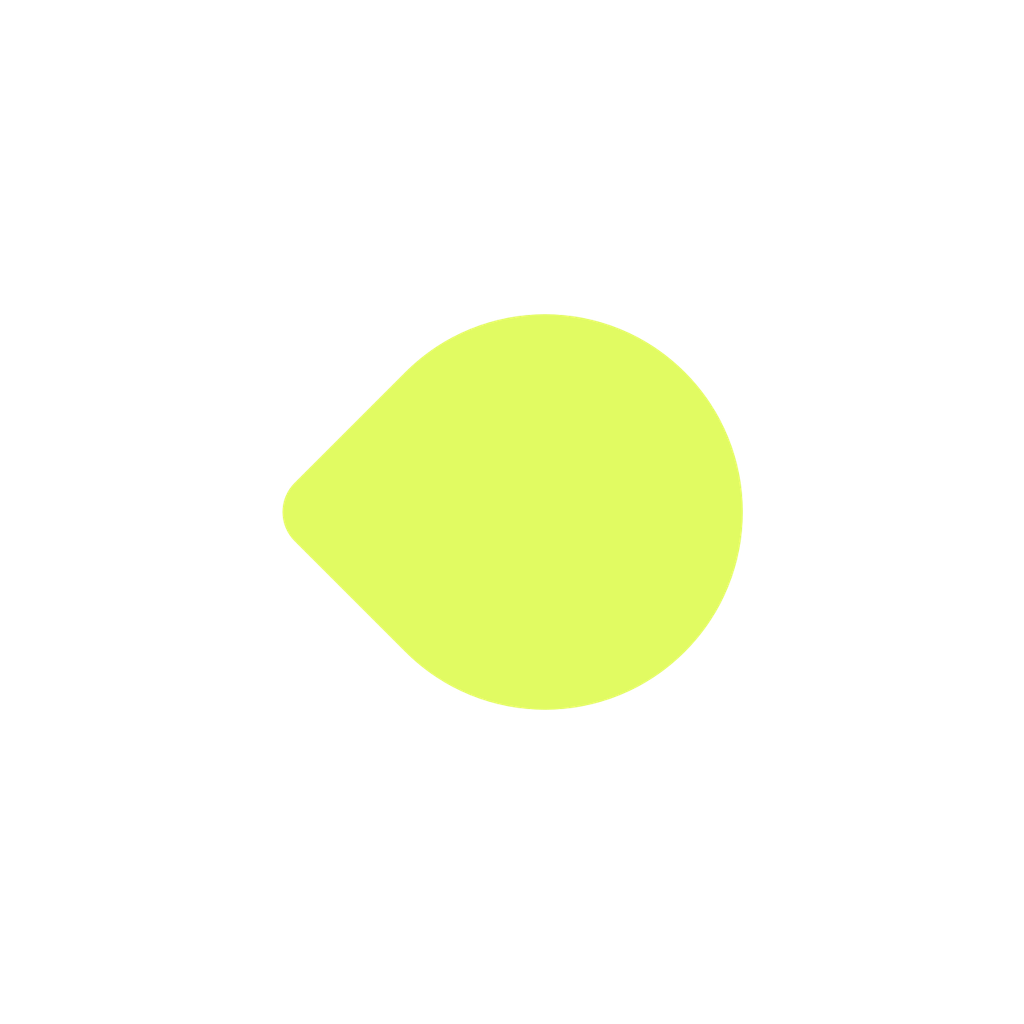
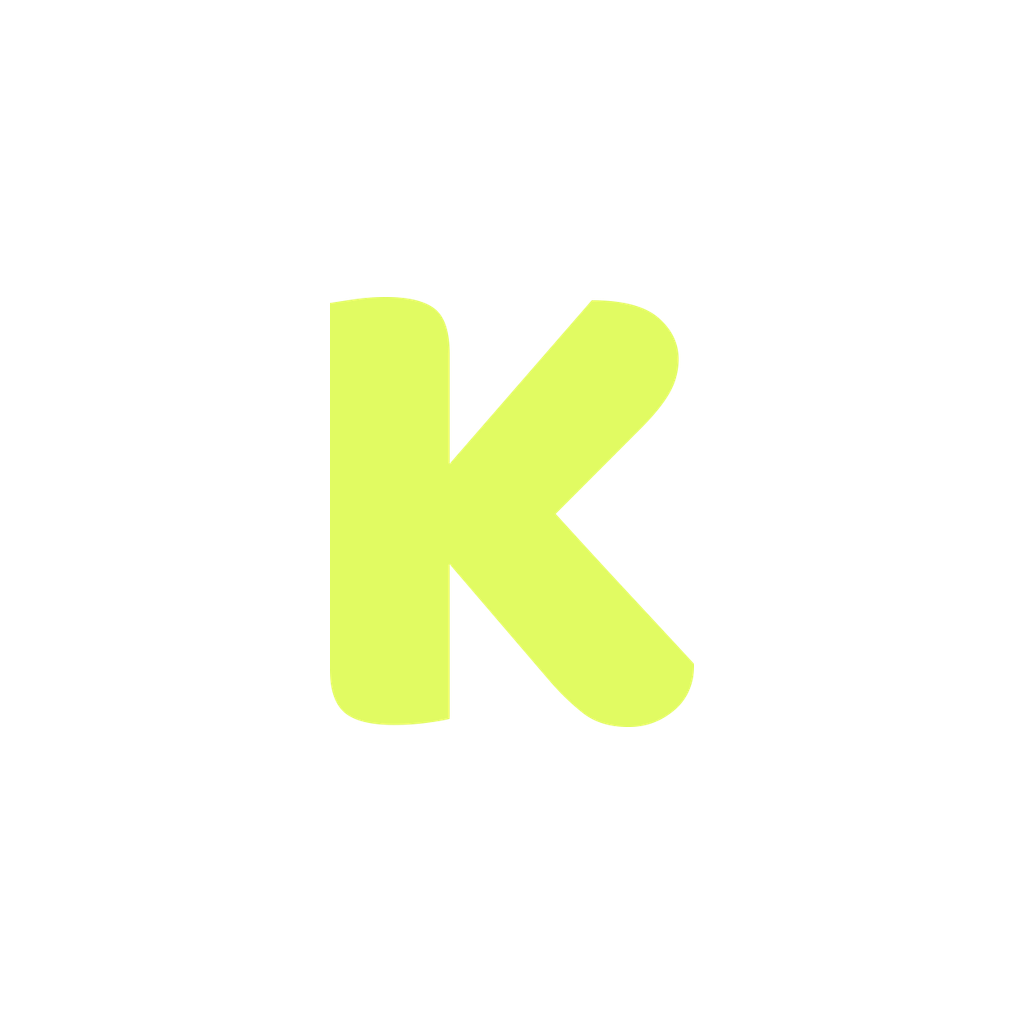
Alinear con el sistema de diseño: el fondo y la marca del ícono
Apareció el UI Kit (V1 · 2026), que no había visto: hasta ahora la identidad
salía de `tokens.ts` y del prototipo. Comparado contra el código, casi todo
coincide —la paleta entera, las dos familias con sus pesos, la escala tipográfica
tal cual (58 / 38 / 28 / 16.5 / 14), y hasta las reglas de tono, que ya se
cumplían: "no es un seguro ni una prepaga" está en el footer y en /legal, y los
montos aclaran IVA incluido. Dos cosas no.

**El fondo.** El kit define `#F7F6FA` y el token `background` estaba en
`#FAF9F5`, un crema más cálido en vez del gris violáceo. Curiosamente
`violet.50` ya era el valor correcto, así que había dos fondos distintos
conviviendo. Se unifica, y con él el `backgroundColor` de la app.

**El ícono.** El kit dice que el avatar, el ícono de la app y el favicon son la
"K" lima sobre el cuadrado violeta. Yo los había generado con la gota, porque es
lo que había en `apps/web/app/icon.svg`. O sea que el ícono del APK instalado no
era el del sistema de diseño. Ahora los cinco archivos salen con la "K", en Baloo
2 ExtraBold real.

Y el splash pasa a ser el wordmark solo, en blanco sobre violeta —la tercera
variante del kit—, sin la gota: la gota no aparece en NINGUNA de las cinco
variantes de marca del kit. Sigue en el header de la web y en el favicon del
navegador, que vienen del prototipo; eso queda para decidir aparte, porque tocarlo
cambia la identidad en toda la superficie pública.
[…]

Changed region(s): [[0.2812, 0.2812, 0.75, 0.7188]]

diff --git a/packages/shared/src/tokens.ts b/packages/shared/src/tokens.ts
@@ -33,7 +33,9 @@ export const colors = {
   warning: { fg: '#B8860B', bg: '#FBF3E2' },
   info: { fg: '#3B6FB0', bg: '#E6F0FB' },
   // Base
-  background: '#FAF9F5',
+  /** Fondo de la app. Es el #F7F6FA del sistema de diseño (V1 2026): antes
+   *  estaba en #FAF9F5, un crema más cálido que no era el gris violáceo del kit. */
+  background: '#F7F6FA',
   surface: '#FFFFFF',
   text: '#211E33',
   textMuted: '#5B5670',
